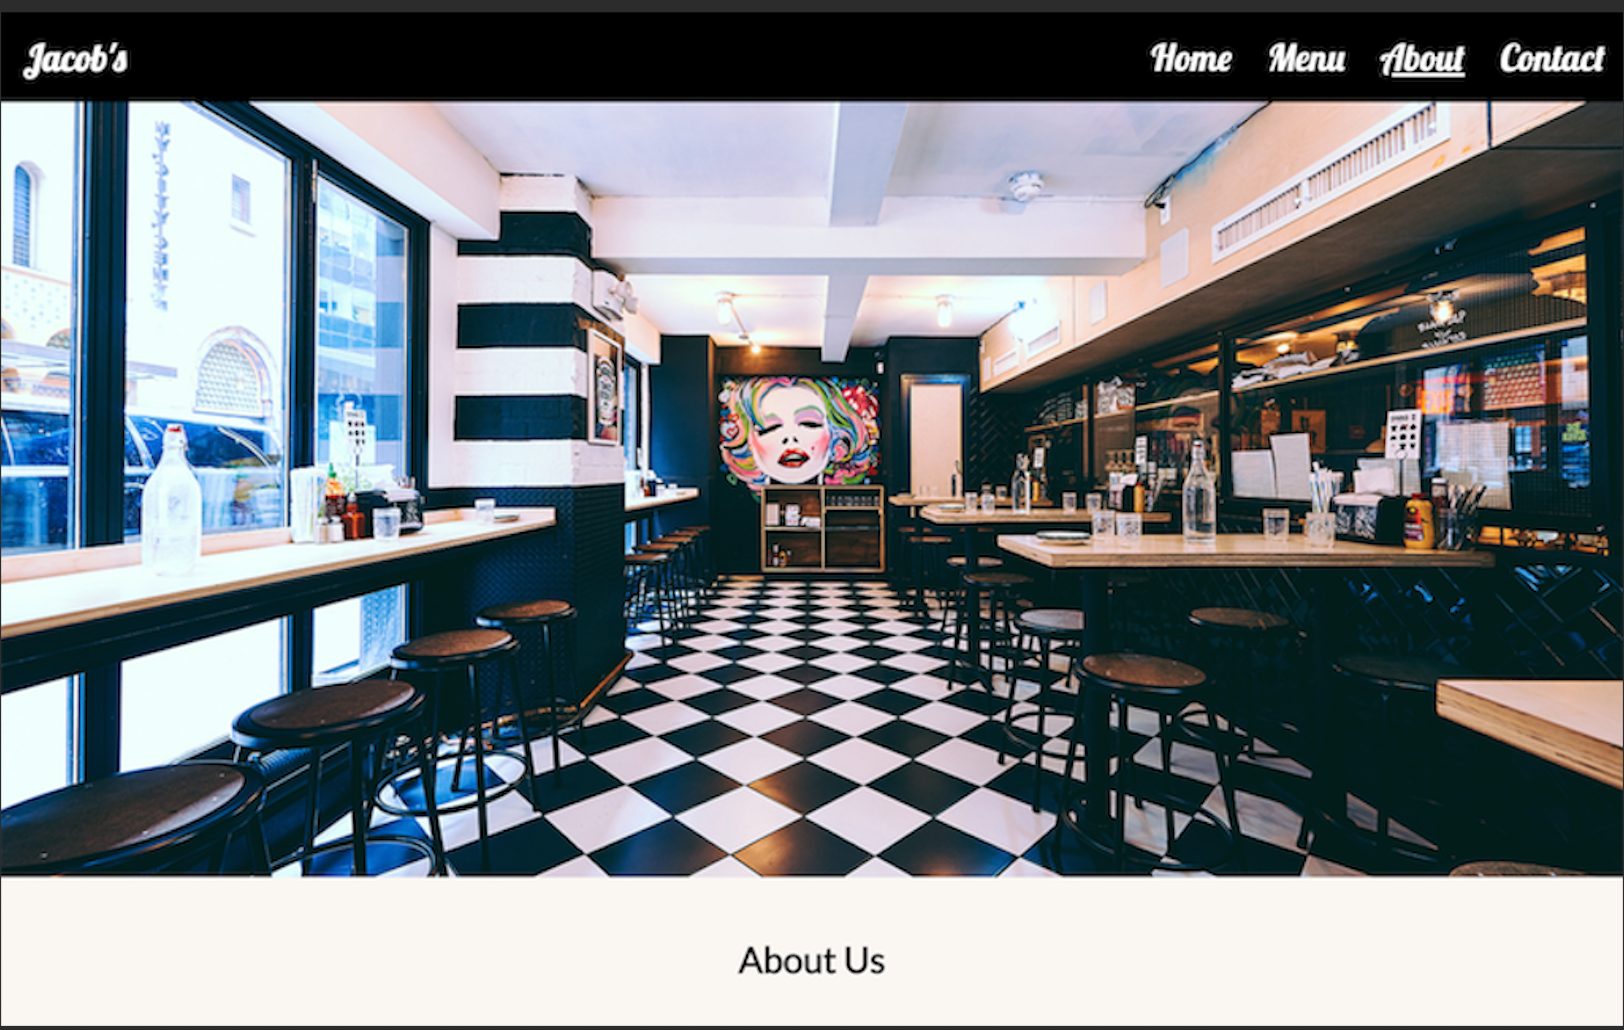
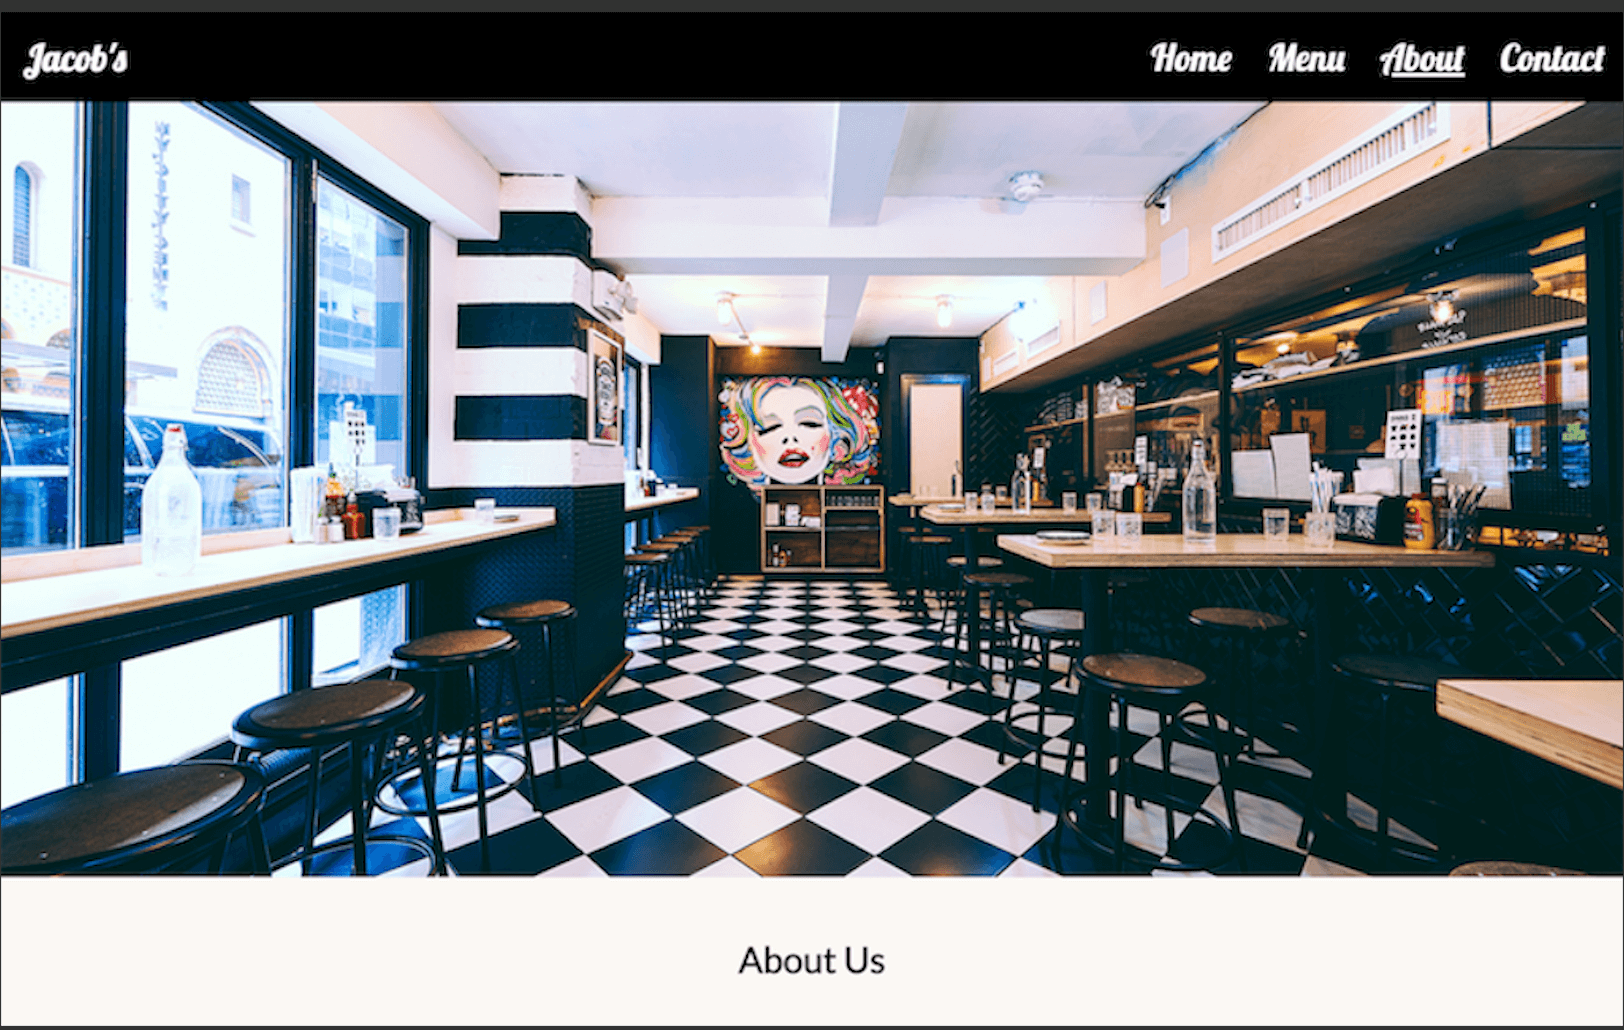
Image size
Reduced image sizing to help with loading speed.

Changed region(s): [[0.431, 0.3728, 0.5542, 0.466], [0.8621, 0.3417, 0.9544, 0.4039], [0.8621, 0.4971, 0.8929, 0.5282]]

diff --git a/index.html b/index.html
@@ -59,8 +59,8 @@
                 <div class="card-body">
                 <h5 class="card-title">COVID-19 Case Display</h5>
                 <p class="card-text">Displays current COVID-19 case data using APIs and JavaScript. Case data updates nightly.</p>
-                <a href="https://jperez210.github.io/Covid-Case-Display/" class="btn btn-sm" target="_blank" >Try It</a>
-                <a href="https://github.com/jperez210/Covid-Case-Display" class="btn btn-sm" target="_blank" >Link To Code</a>
+                <a href="https://jperez210.github.io/Covid-Case-Display/" rel="noopener" class="btn btn-sm" target="_blank" >Try It</a>
+                <a href="https://github.com/jperez210/Covid-Case-Display" rel="noopener" class="btn btn-sm" target="_blank" >Link To Code</a>
               </div>
             </div>
           </div>
@@ -70,8 +70,8 @@
                 <div class="card-body">
                 <h5 class="card-title">Online Shop</h5>
                 <p class="card-text"> A online store created using React. Links to Paypal Sandbox environment for puchases.  </p>
-                <a href="https://jperez210.github.io/sneakers/" class="btn btn-sm" target="_blank" >Try It</a>
-                <a href="https://github.com/jperez210/sneakers"  class="btn btn-sm" target="_blank" >Link To Code</a>
+                <a href="https://jperez210.github.io/sneakers/" rel="noopener" class="btn btn-sm" target="_blank" >Try It</a>
+                <a href="https://github.com/jperez210/sneakers" rel="noopener" class="btn btn-sm" target="_blank" >Link To Code</a>
                 </div>
             </div>
           </div>
@@ -81,8 +81,8 @@
                 <div class="card-body">
                 <h5 class="card-title">Weather-App</h5>
                 <p class="card-text"> Type in a city and return the weather. Uses the openweather app API and javascript to diplay the requested city.</p>
-                <a href="https://jperez210.github.io/Weather-App/"  class="btn btn-sm" target="_blank"  >Try It</a>
-                <a href="https://github.com/jperez210/Weather-App" class="btn btn-sm" target="_blank" >Link To Code</a>
+                <a href="https://jperez210.github.io/Weather-App/" rel="noopener" class="btn btn-sm" target="_blank"  >Try It</a>
+                <a href="https://github.com/jperez210/Weather-App" rel="noopener" class="btn btn-sm" target="_blank" >Link To Code</a>
                 </div>
             </div>
           </div>
@@ -92,8 +92,8 @@
                 <div class="card-body">
                 <h5 class="card-title">MF DOOM Artist Profile</h5>
                 <p class="card-text"> A single page website showcasing the late rapper's music using CSS and HTML.</p>
-                <a href="https://jperez210.github.io/DOOM/" class="btn btn-sm" target="_blank"  >Try It</a>
-                <a href="https://github.com/jperez210/DOOM" class="btn btn-sm" target="_blank" >Link To Code</a>
+                <a href="https://jperez210.github.io/DOOM/" rel="noopener" class="btn btn-sm" target="_blank"  >Try It</a>
+                <a href="https://github.com/jperez210/DOOM" rel="noopener" class="btn btn-sm" target="_blank" >Link To Code</a>
                 </div>
             </div>
           </div>
@@ -108,7 +108,7 @@
     </div>
     <div class="row">
       <div class="col-lg-6">
-        <img src="images/Jacob.png"   alt="Jacob">
+        <img src="images/Jacob.jpeg"   alt="Jacob">
       </div>
       <div class="col-lg-6 pt-2 pt-lg-0">
         <h3>Front-End Web Developer</h3>

diff --git a/cs/projectcss.css b/cs/projectcss.css
@@ -36,6 +36,7 @@ input {
 .nav-link{
   color: mediumpurple!important;
 }
+
 button:hover {
   color: #e4c03d;
 }
@@ -52,18 +53,14 @@ h1, h2 {
 }
 
 img {
-  width: 100%;
+  max-width: 100%;
   height: auto;
 }
 
-.btn{
+.btn {
 	border:1px  solid rgb(10, 10, 10);
 	background:rgb(10, 10, 10);
   color:mediumpurple;
-}
-
-.container-fluid {
-  position: relative;
 }
 
 .header {
@@ -87,9 +84,6 @@ footer {
 
 button.navbar-toggler.navbar-toggler {
   border-color: mediumpurple;
-}
-.nav-link{
-color: mediumpurple;
 }
 
 .row-content {
@@ -194,7 +188,6 @@ section {
   -webkit-transition: 0.5s;
   transition: 0.5s;
 }
-
 
 .form-control:focus {
   border: 2px solid red;

diff --git a/js/main.js b/js/main.js
@@ -27,10 +27,10 @@
     document.getElementById("greeting").innerHTML = greeting; 
 
      form.addEventListener('submit', (e) => {
-     validation();
-  });
+          validation();
+     });
   
-  function validation() {
+     function validation() {
      var firstName, lastName, email, message ;
       
      firstName = document.forms["form"]["firstName"].value;
